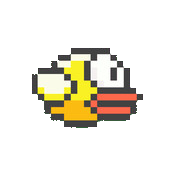
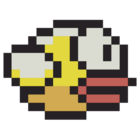
second commit

diff --git a/jquery-collision.min.js b/jquery-collision.min.js
@@ -1,0 +1,71 @@
+
+(function($){function CollisionCoords(proto,containment)
+{if(!proto)
+{this.x1=this.y1=this.x2=this.y2=0;this.proto=null;}
+else if("offset"in proto)
+{var d=proto.data("jquery-collision-coordinates");if(d)
+{this.x1=d.x1;this.y1=d.y1;this.x2=d.x2;this.y2=d.y2;}
+else if(containment&&containment.length&&containment.length>=4)
+{this.x1=containment[0];this.y1=containment[1];this.x2=containment[2]+proto.outerWidth(true);this.y2=containment[3]+proto.outerHeight(true);}
+else if(proto.parent().length<=0)
+{this.x1=parseInt(proto.css("left"))||0;this.y1=parseInt(proto.css("top"))||0;this.x2=parseInt(proto.css("width"))||0;this.y2=parseInt(proto.css("height"))||0;this.x2+=this.x1;this.x2+=(parseInt(proto.css("margin-left"))||0)+(parseInt(proto.css("border-left"))||0)+(parseInt(proto.css("padding-left"))||0)+
+(parseInt(proto.css("padding-right"))||0)+(parseInt(proto.css("border-right"))||0)+(parseInt(proto.css("margin-right"))||0);this.y2+=this.y1;this.y2+=(parseInt(proto.css("margin-top"))||0)+(parseInt(proto.css("border-top"))||0)+(parseInt(proto.css("padding-top"))||0)+
+(parseInt(proto.css("padding-bottom"))||0)+(parseInt(proto.css("border-bottom"))||0)+(parseInt(proto.css("margin-bottom"))||0);}
+else
+{var o=proto.offset();this.x1=o.left-(parseInt(proto.css("margin-left"))||0);this.y1=o.top-(parseInt(proto.css("margin-top"))||0);this.x2=this.x1+proto.outerWidth(true);this.y2=this.y1+proto.outerHeight(true);}
+this.proto=proto;}
+else if("x1"in proto)
+{this.x1=proto.x1;this.y1=proto.y1;this.x2=proto.x2;this.y2=proto.y2;this.proto=proto;}
+if("dir"in proto)
+{this.dir=proto.dir;}}
+CollisionCoords.prototype.innerContainer=function()
+{var clone=new CollisionCoords(this);if(this.proto["css"])
+{clone.x1+=parseInt(this.proto.css("margin-left"))||0;clone.x1+=parseInt(this.proto.css("border-left"))||0;clone.x1+=parseInt(this.proto.css("padding-left"))||0;clone.x2-=parseInt(this.proto.css("padding-right"))||0;clone.x2-=parseInt(this.proto.css("border-right"))||0;clone.x2-=parseInt(this.proto.css("margin-right"))||0;clone.y1+=parseInt(this.proto.css("margin-top"))||0;clone.y1+=parseInt(this.proto.css("border-top"))||0;clone.y1+=parseInt(this.proto.css("padding-top"))||0;clone.y2-=parseInt(this.proto.css("padding-bottom"))||0;clone.y2-=parseInt(this.proto.css("border-bottom"))||0;clone.y2-=parseInt(this.proto.css("margin-bottom"))||0;}
+return clone;}
+CollisionCoords.prototype.move=function(dx,dy)
+{this.x1+=dx;this.x2+=dx;this.y1+=dy;this.y2+=dy;return this;};CollisionCoords.prototype.update=function(obj)
+{if("x1"in obj)this.x1=obj["x1"];if("x2"in obj)this.x1=obj["x2"];if("y1"in obj)this.x1=obj["y1"];if("y2"in obj)this.x1=obj["y2"];if("left"in obj)
+{var w=this.x2-this.x1;this.x1=obj["left"];this.x2=this.x1+w;}
+if("top"in obj)
+{var h=this.y2-this.y1;this.y1=obj["top"];this.y2=this.y1+h;}
+if("offset"in obj)
+{var o=obj.offset();this.update(o);this.x2=this.x1+obj.width();this.y2=this.y1+obj.height();}
+if("dir"in obj)this.x1=obj["dir"];return this;};CollisionCoords.prototype.width=function(){return(this.x2-this.x1);};CollisionCoords.prototype.height=function(){return(this.y2-this.y1);};CollisionCoords.prototype.centerx=function(){return(this.x1+this.x2)/2;};CollisionCoords.prototype.centery=function(){return(this.y1+this.y2)/2;};CollisionCoords.prototype.toString=function()
+{return(this.proto["get"]?"#"+this.proto.get(0).id:"")+"["+[this.x1,this.y1,this.x2,this.y2].join(",")+"]";};CollisionCoords.EPSILON=0.001;CollisionCoords.prototype.containsPoint=function(x,y,inclusive)
+{if(!inclusive)inclusive=false;var epsilon=(inclusive?-1:+1)*CollisionCoords.EPSILON;if((x>(this.x1+epsilon)&&x<(this.x2-epsilon))&&(y>(this.y1+epsilon)&&y<(this.y2-epsilon)))
+return true;else
+return false;};CollisionCoords.prototype.overlaps=function(other,inclusive)
+{var hit=this._overlaps(other,inclusive);if(hit.length>0)return hit;hit=other._overlaps(this,inclusive);if(hit.length>0)
+{hit[0].dir=hit[0].dir=="Inside"?"Outside":hit[0].dir=="Outside"?"Inside":hit[0].dir=="N"?"S":hit[0].dir=="S"?"N":hit[0].dir=="W"?"E":hit[0].dir=="E"?"W":hit[0].dir=="NE"?"SW":hit[0].dir=="SW"?"NE":hit[0].dir=="SE"?"NW":hit[0].dir=="NW"?"SE":undefined;}
+return hit||[];}
+CollisionCoords.prototype._overlaps=function(other,inclusive)
+{var c1=other;var c2=this;if(!inclusive)inclusive=false;var ax=c1.centerx();var ay=c1.centery();var points=[[c1.x1,c1.y1,"SE"],[c1.x2,c1.y1,"SW"],[c1.x2,c1.y2,"NW"],[c1.x1,c1.y2,"NE"],[ax,c1.y1,"S"],[c1.x2,ay,"W"],[ax,c1.y2,"N"],[c1.x1,ay,"E"],[ax,ay,undefined]];var hit=null;var dirs={NW:false,N:false,NE:false,E:false,SE:false,S:false,SW:false,W:false};for(var i=0;i<points.length;i++)
+{if(this.containsPoint(points[i][0],points[i][1],inclusive))
+{if(points[i][2])dirs[points[i][2]]=true;if(hit)continue;hit=[new CollisionCoords({x1:Math.max(c1.x1,c2.x1),y1:Math.max(c1.y1,c2.y1),x2:Math.min(c1.x2,c2.x2),y2:Math.min(c1.y2,c2.y2),dir:points[i][2]})];}}
+if(hit)
+{if(dirs["NW"]&&dirs["NE"])hit[0].dir="N";if(dirs["NE"]&&dirs["SE"])hit[0].dir="E";if(dirs["SE"]&&dirs["SW"])hit[0].dir="S";if(dirs["SW"]&&dirs["NW"])hit[0].dir="W";if(dirs["NW"]&&dirs["NE"]&&dirs["SE"]&&dirs["SW"])hit[0].dir="Outside";if(!dirs["NW"]&&!dirs["NE"]&&!dirs["SE"]&&!dirs["SW"]&&!dirs["N"]&&!dirs["E"]&&!dirs["S"]&&!dirs["W"])hit[0].dir="Inside";}
+return hit||[];};CollisionCoords.prototype._protrusion=function(area,dir,list)
+{var o=this.overlaps(new CollisionCoords(area),false);if(o.length<=0)return list;o[0].dir=dir;list.push(o[0]);return list;};CollisionCoords.prototype.protrusions=function(container)
+{var list=[];var n=Number.NEGATIVE_INFINITY;var p=Number.POSITIVE_INFINITY;var l=container.x1;var r=container.x2;var t=container.y1;var b=container.y2;list=this._protrusion({x1:l,y1:n,x2:r,y2:t},"N",list);list=this._protrusion({x1:r,y1:n,x2:p,y2:t},"NE",list);list=this._protrusion({x1:r,y1:t,x2:p,y2:b},"E",list);list=this._protrusion({x1:r,y1:b,x2:p,y2:p},"SE",list);list=this._protrusion({x1:l,y1:b,x2:r,y2:p},"S",list);list=this._protrusion({x1:n,y1:b,x2:l,y2:p},"SW",list);list=this._protrusion({x1:n,y1:t,x2:l,y2:b},"W",list);list=this._protrusion({x1:n,y1:n,x2:l,y2:t},"NW",list);return list;};function Collision(targetNode,obstacleNode,overlapCoords,overlapType)
+{this.target=targetNode;this.obstacle=obstacleNode;this.overlap=overlapCoords;this.overlapType=overlapType;}
+Collision.prototype.distance=function(other)
+{var tc=c.target;var oc=c.overlap;return Math.sqrt((tc.centerx()-oc.centerx())*(tc.centerx()-oc.centerx())+
+(tc.centery()-oc.centery())*(tc.centery()-oc.centery()));}
+function CollisionFactory(targets,obstacles,containment)
+{this.targets=targets;this.obstacles=obstacles;this.collisions=null;this.cache=null;if(containment)this.containment=containment;else this.containment=null;}
+CollisionFactory.prototype.getCollisions=function(overlapType)
+{if(this.collisions!==null)return this.collisions;this.cache={};this.collisions=[];if(!overlapType)overlapType="collision";if(overlapType!="collision"&&overlapType!="protrusion")return[];var c=[];var t=this.targets;var o=this.obstacles;for(var ti=0;ti<t.length;ti++)
+{var tc=t[ti];for(var oi=0;oi<o.length;oi++)
+{var oc=o[oi];var ol=((overlapType=="collision")?tc.overlaps(oc):tc.protrusions(oc.innerContainer()));for(var oli=0;oli<ol.length;oli++)
+{c.push(new Collision(t[ti],o[oi],ol[oli],overlapType));}}}
+this.collisions=c;return c;};function makeCoordsArray(j)
+{return $(j).get().map(function(e,i,a){return new CollisionCoords($(e));});}
+function combineQueries(array)
+{var j=$();for(var i=0;i<array.length;i++)
+{j=j.add(array[i]);}
+return j;}
+$.fn.collision=function(selector,options)
+{if(!options)options={};var mode="collision";var as=null;var cd=null;var od=null;var dd=null;var rel="body";if(options.mode=="protrusion")mode=options.mode;if(options.as)as=options.as;if(options.colliderData)cd=options.colliderData;if(options.obstacleData)od=options.obstacleData;if(options.directionData)dd=options.directionData;if(options.relative)rel=options.relative;var cf=new CollisionFactory(makeCoordsArray(this),makeCoordsArray(selector));var ov=cf.getCollisions(mode);var array;if(!as)array=$.map(ov,function(e,i,a){return e.obstacle.proto;});else array=$.map(ov,function(e,i,a){var xoff=e.overlap.x1;var yoff=e.overlap.y1;if(rel&&rel!="body")
+{var r=rel=="collider"?$(e.target.proto):rel=="obstacle"?$(e.obstacle.proto):$(rel);if(r.length>0)
+{var roff=r.offset();xoff-=roff.left;yoff-=roff.top;}}
+var c=$(as).offset({left:xoff,top:yoff}).width(e.overlap.width()).height(e.overlap.height());if(cd)c.data(cd,$(e.target.proto));if(od)c.data(od,$(e.obstacle.proto));if(dd&&e.overlap.dir)c.data(dd,e.overlap.dir);return c;});return combineQueries(array);};})(jQuery);

diff --git a/border.js b/border.js
@@ -1,4 +1,4 @@
-var Border = function(heightFirst) {
+var Border = function(collisionFunc,drawScore,heightFirst) {
     if (heightFirst) {
         this.heightFirst = heightFirst;
         this.indent = 120;
@@ -8,6 +8,9 @@ var Border = function(heightFirst) {
     this.stepPx = 2;
     this.poleWidth = parseInt($('.game').width()) + 50;
     this.color = Helper.randowColor();
+    this.collisionFunc = collisionFunc;
+    this.score = 0;
+    this.drawScore = drawScore;
 }
 
 Border.prototype.setRandomHeight = function() {
@@ -49,6 +52,7 @@ Border.prototype.move = function() {
     $(this.borders).css({
         marginRight: '+=' + this.stepPx + 'px',
     });
+    this.chackCollision();
     this.remove();
 }
 
@@ -59,5 +63,35 @@ Border.prototype.remove = function() {
         this.setRandomHeight();
         this.color = Helper.randowColor();
         this.draw();
+        this.score++;
+        this.drawScore(this.score);
     }
+}
+
+Border.prototype.chackCollision = function() {
+    var bird = {
+        x: $('.bird').offset().left,
+        y: $('.bird').offset().top,
+        width: $('.bird').width() - 20,
+        height: $('.bird').height() - 20
+    };
+    
+    var borderTop = {
+        x: $('.border-top').offset().left,
+        y: $('.border-top').offset().top,
+        width: $('.border-top').width(),
+        height: $('.border-top').height()
+    };
+    
+    var borderBottom = {
+        x: $('.border-bottom').offset().left,
+        y: $('.border-bottom').offset().top,
+        width: $('.border-bottom').width(),
+        height: $('.border-bottom').height()
+    };
+    
+    if (Helper.MacroCollision(bird,borderTop))
+        this.collisionFunc();
+    else if (Helper.MacroCollision(bird,borderBottom))
+        this.collisionFunc();
 }

diff --git a/bird.js b/bird.js
@@ -1,29 +1,49 @@
-var Bird = function() {
+var Bird = function(gameOver) {
     $(window).keydown(this.keydown.bind(this));
+    $(window).keyup(this.keyup.bind(this));
     this.isPress = false;
+    this.gameOver = gameOver;
+    this.up = true;
 }
 
 Bird.prototype.start = function() {
     this.bird = $('.bird');
-    setInterval(this.down.bind(this),10);
+    $(this.bird).offset({top: 100});
+    this.downInterval = setInterval(this.down.bind(this),10);
 }
 
 Bird.prototype.down = function() {
     if (!this.isPress) {
         $(this.bird).css({
+            transform: 'rotate(+20deg)',
             marginTop: '+=2px',
         });
+        if ($('.bird').offset().top > $('.game').height() - 35)
+            this.gameOver();
     }
-    console.log(this.isPress);
 }
 
 Bird.prototype.keydown = function(event) {
-    if (event.keyCode == Helper.KEY_CODE.UP) {
+    if (event.keyCode == Helper.KEY_CODE.UP && $(this.bird).offset().top > 50 && this.up) {
         this.isPress = true;
+        $(this.bird).css({
+            transform: 'rotate(-20deg)',
+        });
+        if ($(this.bird).offset().top > 0)
         $(this.bird).animate({
             marginTop: '-=50px',
         },200,function() {
             this.isPress = false;
         }.bind(this));
+        this.up = false;
     }
+}
+
+Bird.prototype.keyup = function() {
+    this.up = true;
+}
+
+Bird.prototype.stop = function() {
+    clearInterval(this.downInterval);
+    $(window).unbind('keydown');
 }

diff --git a/helper.js b/helper.js
@@ -25,3 +25,50 @@ Helper.randowColor = function() {
 Helper.KEY_CODE = {
     UP: 38,
 };
+
+Helper.MacroCollision = function(obj1,obj2){
+  var XColl=false;
+  var YColl=false;
+
+  if ((obj1.x + obj1.width >= obj2.x) && (obj1.x <= obj2.x + obj2.width)) XColl = true;
+  if ((obj1.y + obj1.height >= obj2.y) && (obj1.y <= obj2.y + obj2.height)) YColl = true;
+
+  if (XColl&YColl){return true;}
+  return false;
+}
+
+Helper.setCookie = function (name, value, options) {
+  options = options || {};
+
+  var expires = options.expires;
+
+  if (typeof expires == "number" && expires) {
+    var d = new Date();
+    d.setTime(d.getTime() + expires * 1000);
+    expires = options.expires = d;
+  }
+  if (expires && expires.toUTCString) {
+    options.expires = expires.toUTCString();
+  }
+
+  value = encodeURIComponent(value);
+
+  var updatedCookie = name + "=" + value;
+
+  for (var propName in options) {
+    updatedCookie += "; " + propName;
+    var propValue = options[propName];
+    if (propValue !== true) {
+      updatedCookie += "=" + propValue;
+    }
+  }
+
+  document.cookie = updatedCookie;
+}
+
+Helper.getCookie = function (name) {
+  var matches = document.cookie.match(new RegExp(
+    "(?:^|; )" + name.replace(/([\.$?*|{}\(\)\[\]\\\/\+^])/g, '\\$1') + "=([^;]*)"
+  ));
+  return matches ? decodeURIComponent(matches[1]) : undefined;
+}

diff --git a/style.css b/style.css
@@ -8,15 +8,13 @@
 }
 
 .bird {
-    background-color: coral;
     width: 40px;
     height: 40px;
-    border-radius: 50px;
     position: absolute;
     top: 0;
     bottom: 0;
     margin: auto;
-    margin-left: 10px
+    margin-left: 10px;
 }
 
 .borders {
@@ -40,8 +38,51 @@
 }
 
 .brend {
-    text-align: center;
+    padding-left: 200px;
     font-size: 45pt;
     margin-top: 0px;
     font-family: 'Slabo 27px', serif;
+    letter-spacing: 10px;
+}
+
+.score {
+    float: right;
+    margin-right: 200px;
+    font-size: 20pt;
+}
+
+.high-text {
+    color: aqua;
+}
+
+.gameover-box {
+    width: 300px;
+    height: 300px;
+    position: absolute;
+    border: 1px solid black;
+    border-radius: 5px;
+    top: 0;
+    left: 50%;
+    margin-left: -170px;
+    margin-top: 50px;
+    display: none;
+}
+
+.gameover-box p,.restart {
+    text-align: center;
+    font-size: 20pt;
+    font-family: 'Slabo 27px', serif;
+}
+
+.gameover-box .restart {
+    cursor: pointer;
+    background-color: aquamarine;
+    position: absolute;
+    bottom: 0;
+    width: 100%;
+    border-radius: 0px 0px 5px 5px;
+}
+
+.gameover-box .restart:hover {
+    color: green;
 }

diff --git a/index.html b/index.html
@@ -9,6 +9,7 @@
       href="image/Flappy_Bird_icon.png">
     <link rel="stylesheet" href="style.css">
     <script src="jquery.js"></script>
+    <script src="jquery-collision.min.js"></script>
     <script src="helper.js"></script>
     <script src="border.js"></script>
     <script src="bird.js"></script>
@@ -16,22 +17,13 @@
 </head>
 <body>
 <div class="game">
-    <div class="bird">
-        
-    </div>
-
-<!--
-    <div class="borders">
-        <div class="border-top border">
-
-        </div>
-        <div class="border-bottom border">
-
-        </div>
-    </div>
--->
+    <img src="image/bird.png" alt="" class="bird">
 </div>
-<p class="brend">Flappy Bird</p>
-
+<div class="gameover-box">
+    <p>Game over</p>
+    <p>Score: <span class="score-count">0</span></p>
+    <div class="restart">Restart</div>
+</div>
+<p class="brend">Flappy Bird <span class="score">Score: <span class="score-count">0</span> <span class="high-text">High</span> <span class="score-high">0</span></span></p>
 </body>
 </html>

diff --git a/script.js b/script.js
@@ -1,9 +1,37 @@
+var intervalId;
+var bird = new Bird(gameOver);
+var border = new Border(gameOver,drawScore);
+var highScore = 0;
 $(document).ready(function() {
-    var obj = new Border();
-    obj.draw();
-    var bird = new Bird();
+    var border = new Border(gameOver,drawScore);
+    //$('.restart').bind('click',restart);
+    border.draw();
     bird.start();
-    setInterval(function() {
-        obj.move();
+    intervalId = setInterval(function() {
+        border.move();
     },10);
 });
+
+//function restart() {
+//    border.remove();
+//    $('.gameover-box').hide(200);
+//    bird.start();
+//    intervalId = setInterval(function() {
+//        border.move();
+//    },10);
+//    bird.start();
+//}
+
+function gameOver() {
+    clearInterval(intervalId);
+    bird.stop();
+//    $('.gameover-box').show(300);
+}
+
+function drawScore(score) {
+    $('.score-count').html(score);
+    if (score > highScore) {
+        highScore = score;
+        $('.score-high').html(highScore);
+    }
+}
